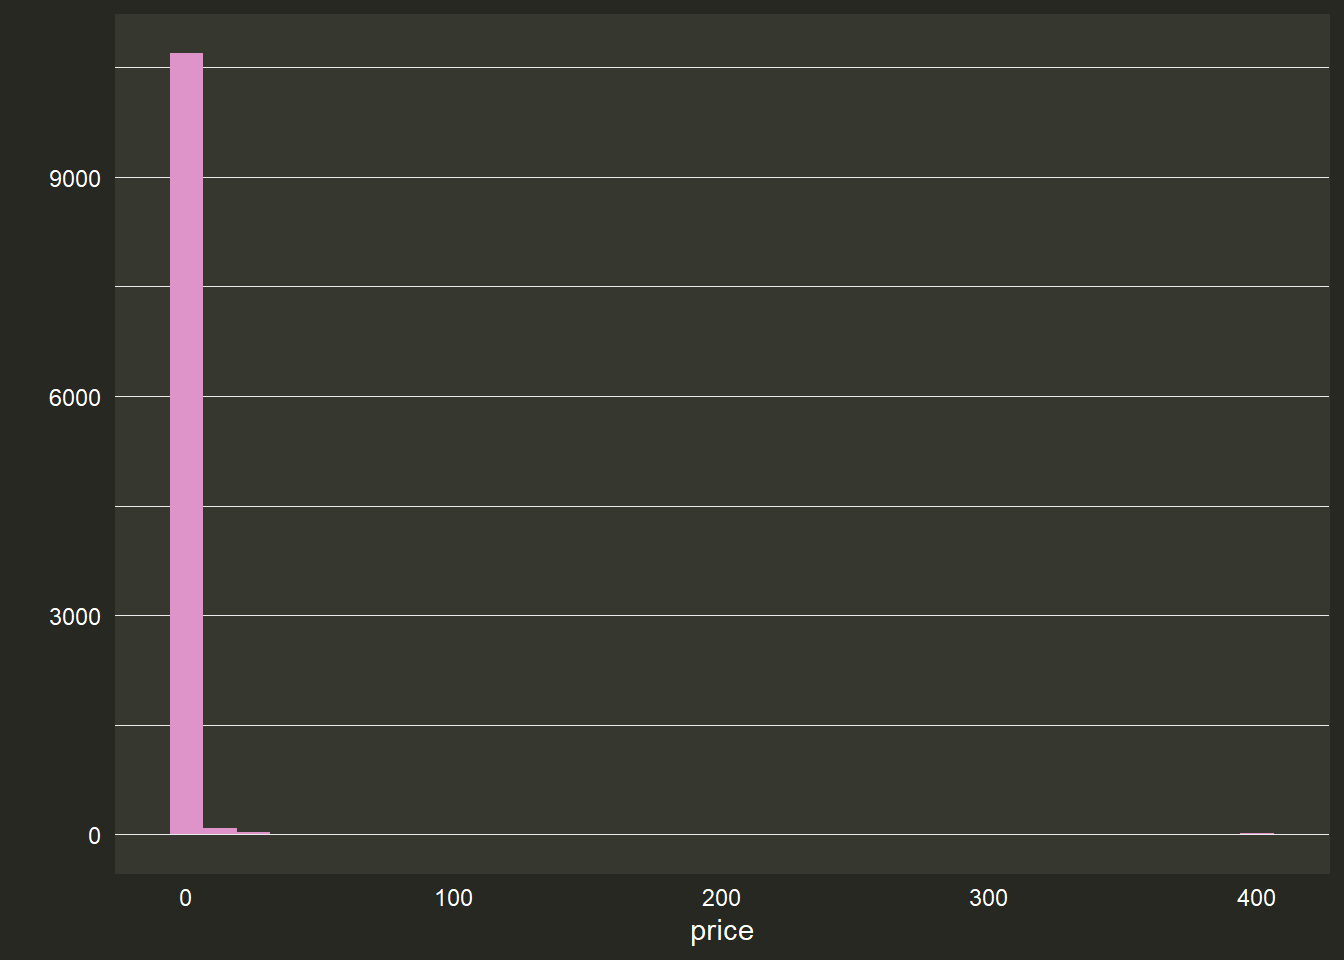
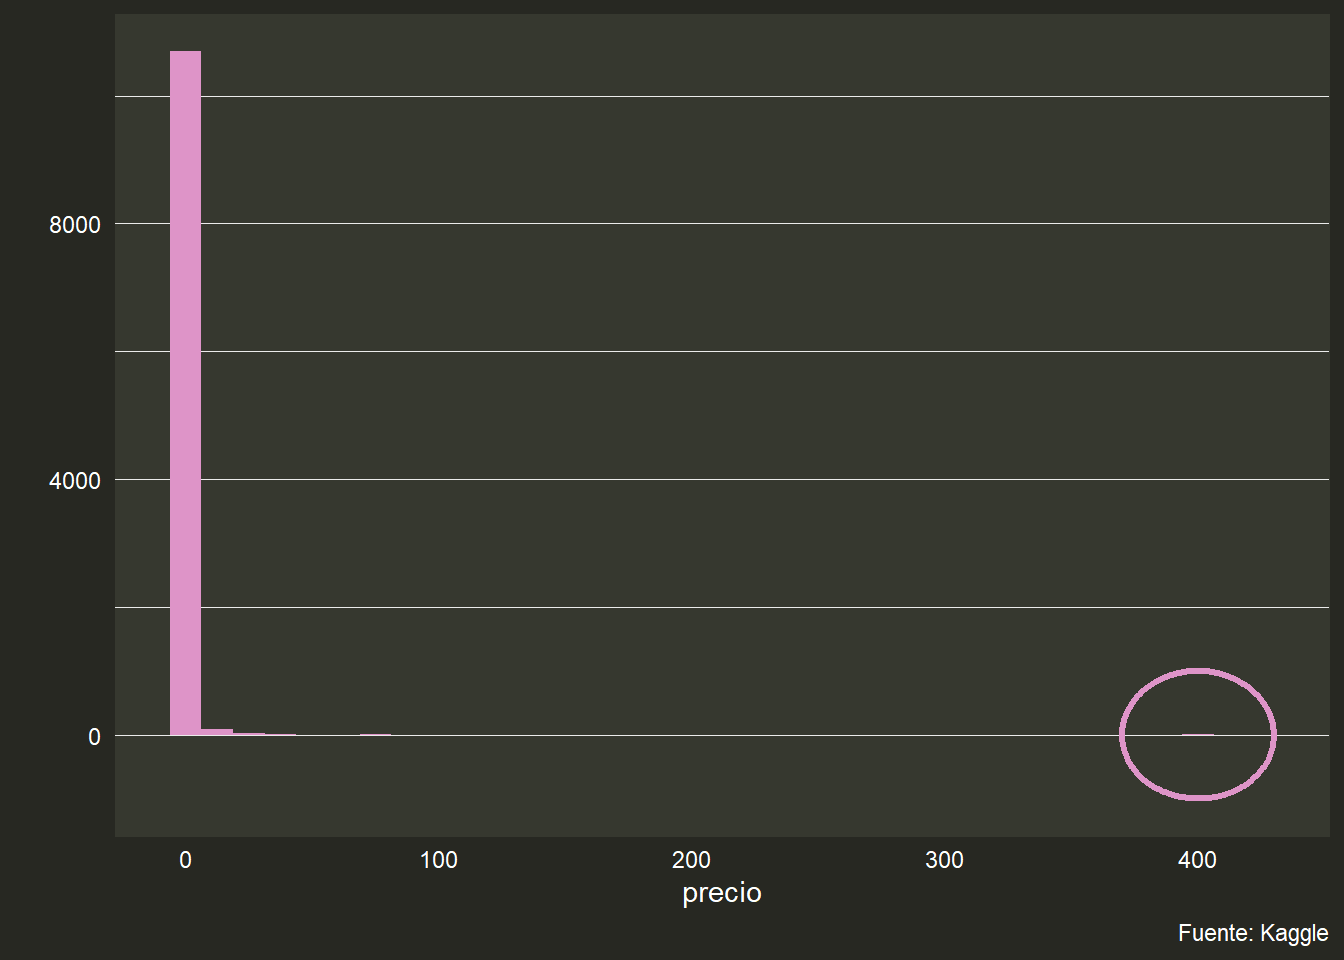
update graphs spanish

diff --git a/content/spanish/posts/2020-10-16-iamrich.html b/content/spanish/posts/2020-10-16-iamrich.html
@@ -39,5 +39,5 @@ showDate: yes
 El icono de la aplicación es muy atractivo y la app en sí muestra un hermoso y lujoso diamente.
 Esta app es quizás la más cara del mercado y está basada en otras aplicaciones similares del tipo “I am rich”.</p>
 </blockquote>
-<p>El dataset está un poquito desactualizado. En el interín, hubo una limpieza de estas aplicaciones basura. Sin embargo, si buscás estás aplicaciones vas a encontrar que todavía existen varias de ellas y ahora tienen un precio de 349.99 dólares, el máximo actual.</p>
+<p>El dataset está un poquito desactualizado. En el interín, hubo una limpieza de estas aplicaciones basura. Sin embargo, si buscás estás aplicaciones vas a encontrar que todavía existen <a href="https://play.google.com/store/apps/details?id=com.gianbattista_vivolo.The_richest&amp;hl=es">varias de ellas</a>. El precio máximo de las apps varía según la región, por ejemplo en Europa es 349 euros.</p>
 <p>Quedate atent@ a la próxima entrega para más datos falopa sobre la humanidad.</p>
